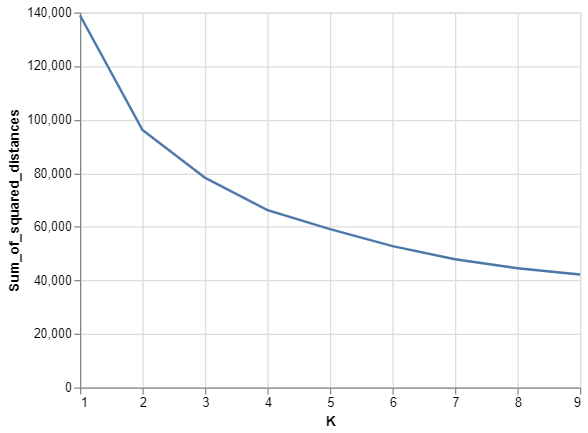
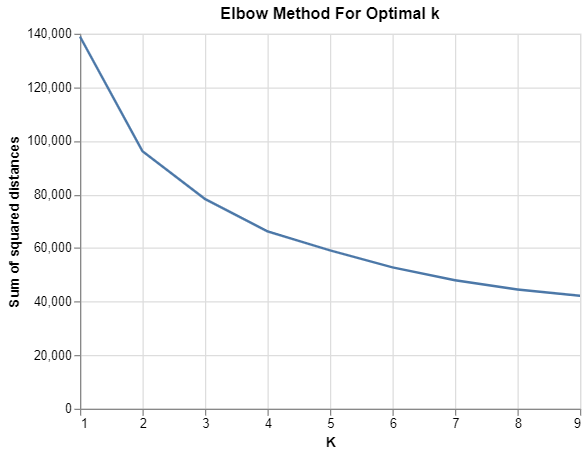
new version uploaded

diff --git a/index_old.html b/index_old.html
@@ -14,13 +14,13 @@
     <link rel="stylesheet" href="https://unpkg.com/@holoviz/panel@0.13.1/dist/css/widgets.css" type="text/css" />
     <link rel="stylesheet" href="https://unpkg.com/@holoviz/panel@0.13.1/dist/css/markdown.css" type="text/css" />
 
-    <script type="text/javascript" src="https://cdn.jsdelivr.net/npm/vega@5.22.1"></script>
-    <script type="text/javascript" src="https://cdn.jsdelivr.net/npm/vega-lite@5.5.0"></script>
-    <script type="text/javascript" src="https://cdn.jsdelivr.net/npm/vega-embed@6.21.0"></script>
+    <script type="text/javascript" src="https://cdn.jsdelivr.net/npm/vega@5"></script>
+    <script type="text/javascript" src="https://cdn.jsdelivr.net/npm/vega-lite@5"></script>
+    <script type="text/javascript" src="https://cdn.jsdelivr.net/npm/vega-embed@6"></script>
     <script type="text/javascript" src="https://unpkg.com/tabulator-tables@4.9.3/dist/js/tabulator.js"></script>
-    <script type="text/javascript" src="https://cdn.bokeh.org/bokeh/release/bokeh-2.4.3.js"></script>
-    <script type="text/javascript" src="https://cdn.bokeh.org/bokeh/release/bokeh-widgets-2.4.3.min.js"></script>
-    <script type="text/javascript" src="https://cdn.bokeh.org/bokeh/release/bokeh-tables-2.4.3.min.js"></script>
+    <script type="text/javascript" src="https://cdn.bokeh.org/bokeh/release/bokeh-2.4.2.js"></script>
+    <script type="text/javascript" src="https://cdn.bokeh.org/bokeh/release/bokeh-widgets-2.4.2.min.js"></script>
+    <script type="text/javascript" src="https://cdn.bokeh.org/bokeh/release/bokeh-tables-2.4.2.min.js"></script>
     <script type="text/javascript" src="https://unpkg.com/@holoviz/panel@0.13.1/dist/panel.min.js"></script>
     <script type="text/javascript">
       Bokeh.set_log_level("info");
@@ -36,14 +36,15 @@
     <style>
       #sidebar {
 	  width: 350px;
-      }
-      .w3-sidebar {
-    z-index: 3;
-    width: 250px;
-    top: 43px;
-    bottom: 0;
-    height: inherit; }
-
+      },
+      html,body,h1,h2,h3,h4,h5,h6 {font-family: "Roboto", sans-serif;}
+.w3-sidebar {
+  z-index: 3;
+  width: 250px;
+  top: 43px;
+  bottom: 0;
+  height: inherit;
+}
     </style>
 
     <script src="https://cdn.jsdelivr.net/npm/jquery@3.5.1/dist/jquery.slim.min.js"></script>
@@ -81,15 +82,15 @@
 
       <div class="row overflow-hidden" id="content">
 	<div class="sidenav" id="sidebar">
-    <h5 class="w3-text-teal">Select The Variable "X" and "Y":</h5>
+    <h1 class="w3-text-teal">Select The Variable "X" and "Y":</h1>
 	  <ul class="nav flex-column">
             <div class="bk-root" id="x-widget"></div>
             <div class="bk-root" id="y-widget"></div>
-            <h5 class="w3-text-teal">Select Number of Clusters:</h5>
+            <h1 class="w3-text-teal">Select Number of Clusters:</h1>
             <div class="bk-root" id="n-widget"></div>
-            <h5 class="w3-text-teal">Background: Elbow Method to Choose the Optimal <br> Number of K-Means Cluster</h5>
-            <div width: 100px;
-            height: 100px; id="line-plot"></div>
+            <h1 class="w3-text-teal">Background: Elbow Method to Choose the Optimal <br> Number of K-Means Cluster</h1>
+            <!-- <span style="padding-left:20px"><div id="mpl" width="200" ></div></span> -->
+            <img src="./ElbowMethod.png" alt="Elbow Method for K-Means Clustering" width="230px">
             <span style="padding-left:20px"><div class="w3-padding-32">
               <button class="w3-btn w3-dark-grey w3-hover-light-grey" onclick="document.getElementById('id01').style.display='block'" style="font-weight:600;">Click here for Description</button>
             </div></span>
@@ -109,7 +110,7 @@
           To find the optimal number of cluster we implemented the Elbow method,<br>
           and it has been found that 4 is the most optimal number of clusters.<br>
           However to ensure interactivity we added some slider so that user can choose the number of clusters.</p>
-          <img src="https://github.com/FIT3164-MDS8/publish_web/blob/4509a670c1a7429e624c3fa2231382973ea6408f/ElbowMethod.png?raw=true" alt="Elbow Method for K-Means Clustering" width="100%">
+          <img src="./ElbowMethod.png" alt="Elbow Method for K-Means Clustering" width="100%">
       </div>
       <footer class="w3-container w3-theme-l1">
 
@@ -150,13 +151,14 @@
       <header class="w3-container w3-theme-l1"> 
         <span onclick="document.getElementById('id02').style.display='none'"
         class="w3-button w3-display-topright">×</span>
-        <p> OUR LEARNING OBJECTIVES </p>
+        <p> ABOUT THE ARTICLES </p>
       </header>
       <div class="w3-padding">
-        <p>1. To perform clustering on text documents.<br>
-          2. To analyze these clusters if they showcase some form of similarities in their findability 
-          characteristics.<br>
-          </p>
+        <p>1. To extract Data from given datasets<br>
+          2. Preprocess it into a desired form<br>
+          3. To perform clustering on text documents<br>
+          4. To analyze these clusters if they showcase some form of similarities in their findability 
+          characteristics</p>
       </div>
     </div>
   </div>
@@ -167,7 +169,7 @@
         <header class="w3-container w3-theme-l1"> 
           <span onclick="document.getElementById('id03').style.display='none'"
           class="w3-button w3-display-topright">×</span>
-          <p> ABOUT THE ARTICLES </p>
+          <p> OUR LEARNING OBJECTIVES </p>
         </header>
         <div class="w3-padding">
           <p>We are using Article from <i>plos.org</i>, specifically the Plos One, which consist of Research Article, Clinical Trial, 
@@ -221,9 +223,8 @@
 	  <div class="bk-root" style="margin-top:10px" id="bar-plot"></div>
     
     <div class="w3-padding w3-display-container w3-white">
-      <p> Note: The number above the "Section" refer to the Number of Cluster</p>
-      <p >This bar graph represents the Average Keywords for each Articles Section depending on the number of K Means Cluster. </p>
-      <p> This bar graph interprets that the higher the value of the Average Keywords, the easier the keywords could be find within the article for each of the Article's sections. </p> <br>
+      <p >This bar graph represents the Average Word for each Articles Section depending on the number of K Means Cluster. </p>
+      <p> This bar graph interprets that the higher the value of the Average Word, the easier the keywords could be find within the article for each of the Article's sections. </p> <br>
     </div>
 
     <header style="font-size:30px;" class="w3-container w3-blue-grey w3-padding-small">
@@ -238,6 +239,8 @@
 
     <py-script>
       import warnings
+
+      warnings.simplefilter(action='ignore', category=FutureWarning)
       import altair as alt
       import panel as pn
       import pandas as pd
@@ -246,7 +249,6 @@
       from sklearn.cluster import KMeans
       from pyodide.http import open_url
 
-      warnings.simplefilter(action='ignore', category=FutureWarning)
       pn.config.sizing_mode = 'stretch_width'
 
       url = 'https://raw.githubusercontent.com/FIT3164-MDS8/Preprocess_Csv/main/clean_cluster.csv'
@@ -256,6 +258,7 @@
       x = pn.widgets.Select(name='x', options=cols, value='Abstract').servable(target='x-widget')
       y = pn.widgets.Select(name='y', options=cols, value='Introduction').servable(target='y-widget')
       n_clusters = pn.widgets.IntSlider(name='n_clusters', start=1, end=6, value=4).servable(target='n-widget')
+
       brush = alt.selection_interval(name='brush')  # selection of type "interval"
 
       def get_clusters(n_clusters):
@@ -281,50 +284,29 @@
                   .mark_point(size=250, shape='cross', color='black')
                   .encode(x=x+':Q', y=y+':Q', tooltip=['cluster'])
           )
-
       def get_bar(df):
           total = df.groupby('cluster').agg('mean')
           return (
             alt.Chart(total)
             .mark_bar()
             .encode(
-              x='Average Keywords:Q',
+              x='Average Word:Q',
               y='Sections:N',
               color='Sections:N',
               row='cluster:O'
             )
             .transform_fold(
-              as_=['Sections', 'Average Keywords'],
+              as_=['Sections', 'Average Word'],
               fold=['Abstract','Introduction','Methods',
               'Experiment','Results', 'Conclusion']
             )
           )
 
-      def get_elbow(df):
-          Sum_of_squared_distances = []
-          K = range(1,10)
-          for num_clusters in K :
-            kmeans = KMeans(n_clusters=num_clusters)
-            kmeans.fit(df.loc[:, df.columns != 'File_csv'])
-            Sum_of_squared_distances.append(kmeans.inertia_)
-          data = pd.DataFrame({'Sum of squared distances': Sum_of_squared_distances,
-                               'K': [1,2,3,4,5,6,7,8,9]})
-          return (
-            alt.Chart(data)
-            .mark_line()
-            .encode(
-              x='K',
-              y='Sum of squared distances'
-            ).properties(
-              title='Elbow Method For Optimal k'
-            )
-          )
-
+    
 
       chart = pn.pane.Vega().servable(target='cluster-plot')
       bar = pn.pane.Vega().servable(target='bar-plot')
       table = pn.widgets.Tabulator(pagination='remote', page_size=10).servable(target='table')
-      line = pn.pane.Vega().servable(target='line-plot')
 
       def update_table(event=None):
           table.value = get_clusters(n_clusters.value)
@@ -344,7 +326,6 @@
               filters.append(dict(field=k, type='<=', value=v[1]))
           table.filters = filters
 
-      line.object = get_elbow(mds)
       update_table()
       update_chart()
     </py-script>
